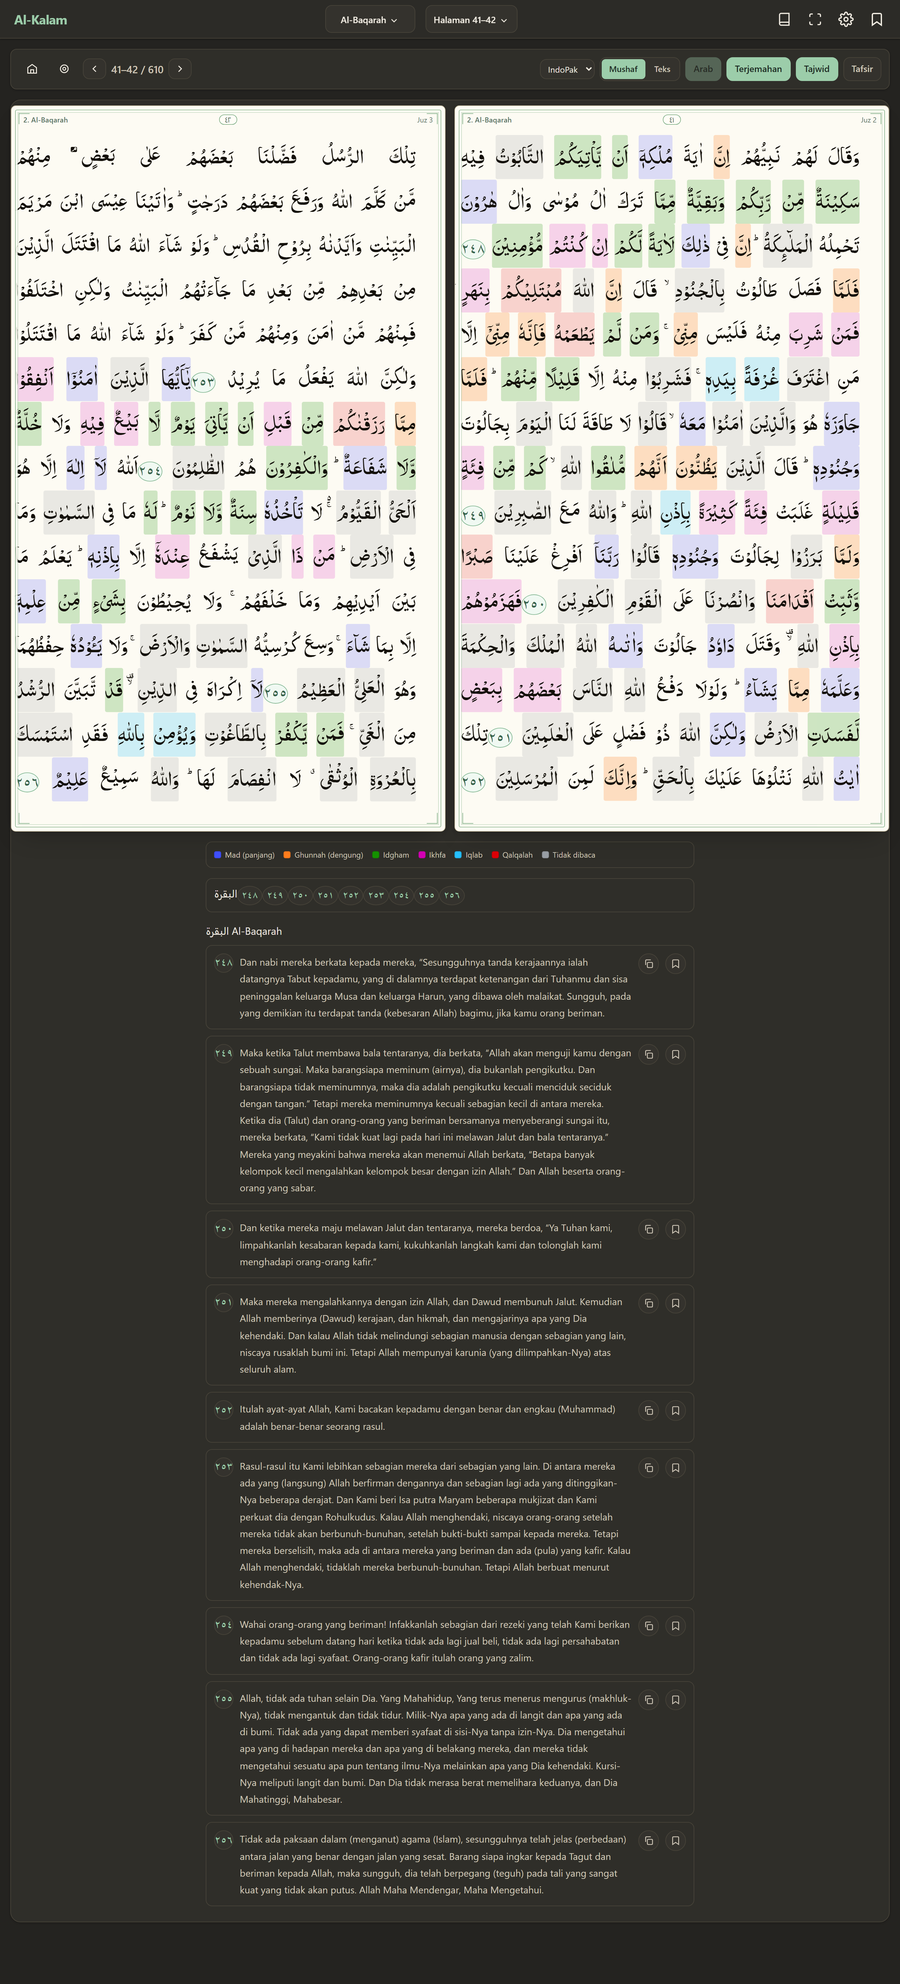
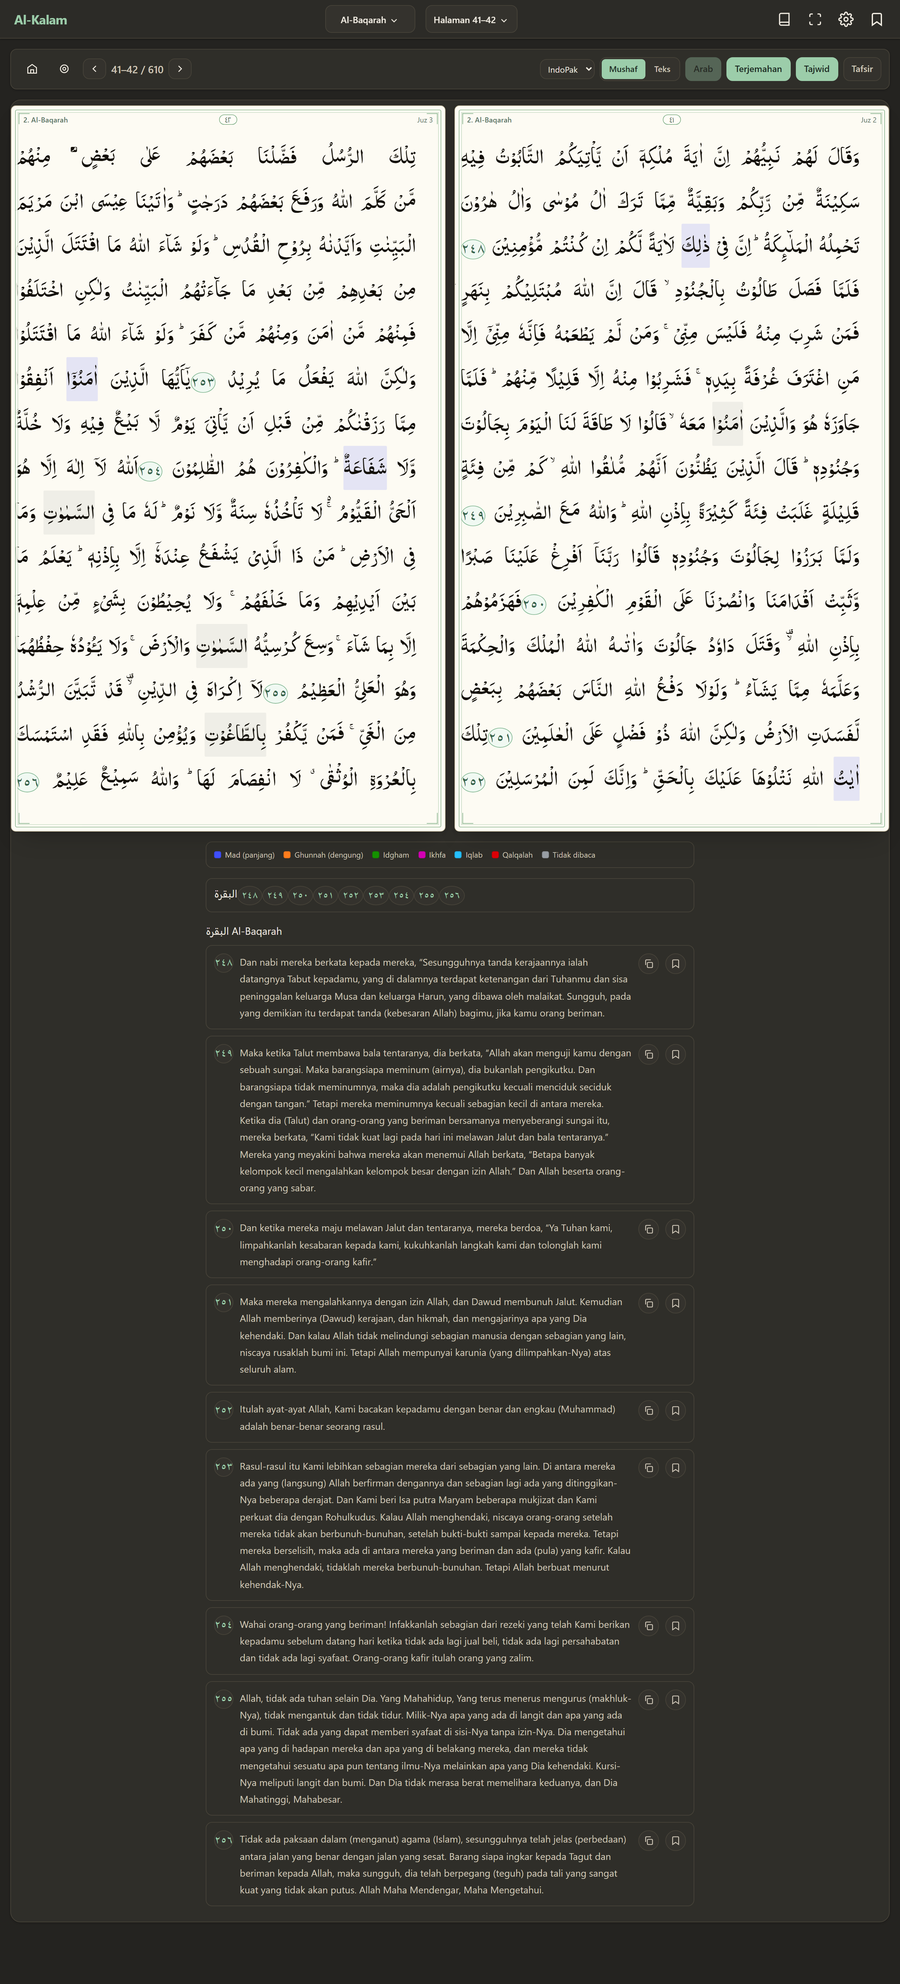
Tajwid IndoPak: warna per huruf (setelah periksa QUL)
Temuan dari QUL:
- Halaman IndoPak QUL tidak membawa data tajwid sama sekali: span kata hanya
  punya data-location/data-ayah, tanpa kelas hukum (ghunnah, madda_*, dst)
- Resource tajwid QUL semuanya untuk Madani: layout "QPC v4 tajweed",
  "KFGQPC 1421H print (Tajweed tagged)", dan "Uthmani Tajweed Images"

Perbaikan:
- Markup tajwid kini diurai menjadi potongan per huruf (bukan per kata),
  lalu diselaraskan dengan huruf dasar kata IndoPak (harakat dibuang)
- Hasil: warna hanya mengenai huruf yang berhukum, mis. اِنَّ -> hanya "نَّ"
  (ghunnah), اَنْ -> "نْ" (idgham), التَّابُوْتُ -> "ا" (hamzah washal)
- Bila jumlah huruf dasar tidak sama, jatuh ke pewarnaan per kata seperti
  sebelumnya; bila jumlah kata berbeda, tidak diwarnai
- Diuji halaman 41: 30 kata, 16 kata berisi span huruf berwarna, tanpa error

diff --git a/js/app.js b/js/app.js
@@ -157,7 +157,7 @@
   }
   
   // ── Versi build (tanda bahwa browser memakai bundel terbaru) ────────
-  const BUILD = '2026-11-22-tajwid-fix';
+  const BUILD = '2026-11-22-tajwid-letter';
 
   function showBuildTag() {
     const el = document.getElementById('buildTag');
@@ -382,6 +382,109 @@
   }
 
   const wordRuleCache = new Map();
+
+  // ── Pewarnaan per HURUF (IndoPak) ──────────────────────────────────
+  const AR_MARKS_RE = /[\u0610-\u061A\u064B-\u065F\u0670\u06D6-\u06ED\u0640\u200C\u200D\u0653-\u0655]/;
+  const AR_MARKS_G = /[\u0610-\u061A\u064B-\u065F\u0670\u06D6-\u06ED\u0640\u200C\u200D\u0653-\u0655]/g;
+  const baseLetters = (t) => String(t).replace(AR_MARKS_G, "");
+
+  /** Pecah markup jadi kata, tiap kata berisi potongan { text, rule }. */
+  function tajwidSegments(html) {
+    if (!html) return [];
+    let src = String(html).replace(/<span\s+class=["']?end["']?\s*>[\s\S]*?<\/span>/g, "");
+    const words = [];
+    let segs = [];
+    let text = "";
+    let rule = null;
+
+    const push = (t, r) => {
+      if (!t) return;
+      const last = segs[segs.length - 1];
+      if (last && last.rule === r) last.text += t;
+      else segs.push({ text: t, rule: r });
+    };
+    const flush = () => {
+      if (text) words.push({ text, segments: segs });
+      text = "";
+      segs = [];
+    };
+
+    let i = 0;
+    while (i < src.length) {
+      if (src[i] === "<") {
+        const close = src.indexOf(">", i);
+        if (close === -1) break;
+        const tag = src.slice(i + 1, close);
+        if (/^tajweed\b/i.test(tag)) {
+          rule = (tag.match(/class\s*=\s*["']?([a-z_]+)/i) || [])[1] || null;
+        } else if (/^\/tajweed/i.test(tag)) {
+          rule = null;
+        }
+        i = close + 1;
+        continue;
+      }
+      const ch = src[i];
+      if (/[\s\u00a0]/.test(ch)) { flush(); i += 1; continue; }
+      text += ch;
+      push(ch, rule);
+      i += 1;
+    }
+    flush();
+    return words;
+  }
+
+  /** Aturan per huruf dasar untuk satu kata markup. */
+  function wordLetterRules(word) {
+    const out = [];
+    for (const seg of word.segments || []) {
+      const g = RULE_TO_GROUP[seg.rule] || null;
+      for (const ch of seg.text) if (!AR_MARKS_RE.test(ch)) out.push(g);
+    }
+    return out;
+  }
+
+  const verseLettersCache = new Map();
+
+  /** ayat → daftar kata { base, rules } sesuai markup tajwid. */
+  async function verseLetterData(verseKey) {
+    if (verseLettersCache.has(verseKey)) return verseLettersCache.get(verseKey);
+    const all = await DataManager.load('tajwid');
+    const words = tajwidSegments((all && all[verseKey]) || '');
+    const data = words.map(w => ({ base: baseLetters(w.text), rules: wordLetterRules(w) }));
+    verseLettersCache.set(verseKey, data);
+    return data;
+  }
+
+  /**
+   * HTML satu kata IndoPak dengan warna per huruf.
+   * null bila jumlah huruf dasar tidak sama (pemanggil pakai cadangan per kata).
+   */
+  function tintedWordHtml(text, rules) {
+    const base = baseLetters(text);
+    if (!rules || !rules.length || base.length !== rules.length) return null;
+    const esc = (t) => t.replace(/&/g, "&amp;").replace(/</g, "&lt;");
+    let html = "";
+    let buf = "";
+    let cur = null;
+    let idx = 0;
+    const flush = () => {
+      if (!buf) return;
+      html += cur ? `<span class="taj-${cur}">${esc(buf)}</span>` : esc(buf);
+      buf = "";
+    };
+    for (const ch of text) {
+      const isMark = AR_MARKS_RE.test(ch);
+      const g = isMark ? cur : (rules[idx] || null);
+      if (!isMark) {
+        if (g !== cur) { flush(); cur = g; }
+        idx += 1;
+      }
+      buf += ch;
+    }
+    flush();
+    return html;
+  }
+
 
   /**
    * Urai markup tajwid (HTML) menjadi daftar kata beserta hukum yang ada di dalamnya.
@@ -967,6 +1070,8 @@
 
     // IndoPak tidak punya font berwarna → warnai per kata dengan data tajwid
     const wordTintOn = !!state.showTajwid && mushafKey() === 'indopak';
+    const letterByVerse = new Map();      // vk -> daftar kata markup (per huruf)
+    const wordOrdinal = new Map();        // vk -> nomor kata teks yang sedang ditulis
     // peta: ayat → (posisi kata → grup tajwid). Hanya kata teks (penanda nomor
     // ayat tidak dihitung), supaya indeks sejajar dengan markup tajwid.
     const tintByVerse = new Map();
@@ -986,6 +1091,7 @@
         const m = new Map();
         poss.forEach((p, i) => { if (groups[i]) m.set(p, groups[i]); });
         tintByVerse.set(vk, m);
+        letterByVerse.set(vk, await verseLetterData(vk));
       }
     }
 
@@ -1021,11 +1127,20 @@
                 htm += `<span class="mw mw-end-badge" data-v="${vk}" data-w="${pos}">${toArabicDigits(Number(ayahNo))}</span>`;
               } else if (clean) {
                 let tint = '';
+                let inner = clean;
                 if (wordTintOn) {
-                  const g = tintByVerse.get(vk)?.get(pos);
-                  if (g) tint = ` taj-${g}`;
+                  const ord = wordOrdinal.get(vk) || 0;
+                  wordOrdinal.set(vk, ord + 1);
+                  const markupWord = (letterByVerse.get(vk) || [])[ord];
+                  const perLetter = markupWord ? tintedWordHtml(clean, markupWord.rules) : null;
+                  if (perLetter !== null) {
+                    inner = perLetter;
+                  } else {
+                    const g = tintByVerse.get(vk)?.get(pos);
+                    if (g) tint = ` taj-${g}`;
+                  }
                 }
-                htm += `<span class="mw${tint}" data-v="${vk}" data-w="${pos}">${clean}</span> `;
+                htm += `<span class="mw${tint}" data-v="${vk}" data-w="${pos}">${inner}</span> `;
               }
             } else {
               htm += `<span class="mw${isEnd ? ' mw-end' : ''}" data-v="${vk}" data-w="${pos}">${glyph}</span> `;

diff --git a/sw.js b/sw.js
@@ -2,9 +2,9 @@
  * Al-Kalam Digital — Service Worker
  * Offline-first untuk halaman mushaf & data JSON
  */
-const CACHE_NAME = 'alkalam-v25';
+const CACHE_NAME = 'alkalam-v26';
 const DATA_CACHE = 'alkalam-data-v3';
-const PAGE_CACHE = 'alkalam-pages-v25';
+const PAGE_CACHE = 'alkalam-pages-v26';
 const IMG_CACHE = 'alkalam-page-images-v2';
 
 // File yang di-cache saat install (app shell)
